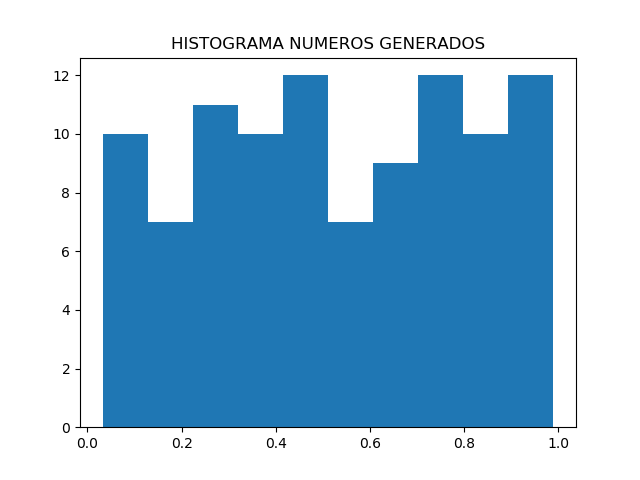
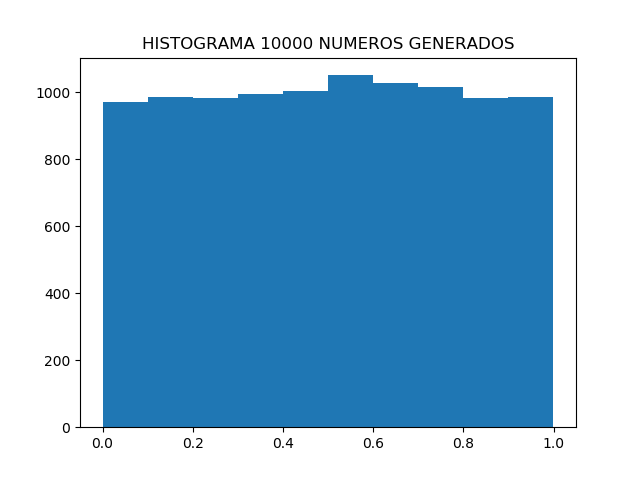
ej 4

diff --git a/tp1/ejercicio4.py b/tp1/ejercicio4.py
@@ -1,0 +1,69 @@
+from general import *
+
+g = generador.GeneradorLinealCongruente()
+
+class Normal_distribution:
+	def __init__(self, media, desvio):
+		self.media = media
+		self.desvio= desvio
+		self.c = (1.0/(self.desvio*math.sqrt(2.0*math.pi)))*math.exp(self.desvio + self.media-0.5)
+
+	def density_function(self, x):
+		return (1.0/(self.desvio*math.sqrt(2.0*math.pi)))*math.exp(-(((x-self.media)**2)/(2*(self.desvio)**2)))
+
+	def exponencial_function(self, x):
+		return math.exp(-x)
+
+	def X(self, t):
+		return self.density_function(t)
+
+	def Y(self, t):
+		return self.exponencial_function(t)
+
+	def accept(self, u):
+		u2 =  g.generar()
+		t  = -math.log(1-u2);
+		return (u > (self.X(t)/self.Y(t)*self.c))
+
+	def generate_list(self, n):
+		l = []
+		u =  g.generar()
+		for i in range(n):
+			while(not self.accept(u)):
+				u =  g.generar()
+				print("no se acepto %f" %(u))	
+			u3 = g.generar()
+			if(u3 >0.5):
+				l.append(u)
+			else:
+				l.append(u)
+			u =  g.generar()
+		return l
+
+		return l
+	def get_media(self):
+		return self.media
+
+	def get_moda(self):
+		return self.media
+
+	def get_variance(self):
+		return self.desvio
+
+
+print("######################################################")
+print("EJERCICIO 4")
+print("######################################################")
+print("\n")
+
+cant = 100000
+uni = Normal_distribution(0,1)
+l = uni.generate_list(cant)
+generate_histogram(l, "HISTOGRAMA %d NUMEROS GENERADOS" %(cant),'./graficos/ejercicio4-histograma.png');
+
+print("La media teorica de una V.A normal es: %f" %(uni.get_media()))
+print("La media es: %f" %(get_media(l)) )
+print("La varianza teorica de una v.A normal es: %f" %(uni.get_variance()))
+print("La varianza experimental es: %f" %(get_variance(l)))
+print("La moda teorica de una v.A normal es: %f" %(uni.get_variance()))
+print("La moda es: %f" %(get_modas(l)))

diff --git a/tp1/ejercicio3.py b/tp1/ejercicio3.py
@@ -24,17 +24,19 @@ class Uniform_distribution:
 		return ((self.b+self.a)**2)/12.0
 
 
+
 print("######################################################")
 print("EJERCICIO 3")
 print("######################################################")
 print("\n")
 
+cant = 10000
 uni = Uniform_distribution(0,1)
-l = uni.generate_list(100)
-generate_histogram(l, "HISTOGRAMA NUMEROS GENERADOS",'./graficos/ejercicio3-histograma.png');
+l = uni.generate_list(cant)
+generate_histogram(l, "HISTOGRAMA %d NUMEROS GENERADOS" %(cant),'./graficos/ejercicio3-histograma.png');
 
 print("La media teorica de una V.A uniforme es: %f" %(uni.get_media()))
 print("La media es: %f" %(get_media(l)) )
-print("La varianza teorica de una v.A una es: %f" %(uni.get_variance()))
+print("La varianza teorica de una v.A uniforme es: %f" %(uni.get_variance()))
 print("La varianza experimental es: %f" %(get_variance(l)))
 print("La moda es: %f" %(get_modas(l)))

diff --git a/tp1/ejercicio2.py b/tp1/ejercicio2.py
@@ -26,9 +26,10 @@ print("######################################################")
 print("EJERCICIO 2")
 print("######################################################")
 print("\n")
+cant = 10000
 exp = Exponential_distribution(15)
-l = exp.generate_list(10000)
-generate_histogram(l, "HISTOGRAMA DE 100000 NUMEROS GENERADOS",'./graficos/ejercicio2-histograma.png');
+l = exp.generate_list(cant)
+generate_histogram(l, "HISTOGRAMA %d NUMEROS GENERADOS" %(cant),'./graficos/ejercicio2-histograma.png');
 
 print("La media teorica de una v.A exponencial es: %f" %(exp.get_media()))
 print("La media es: %f" %(get_media(l)) )
